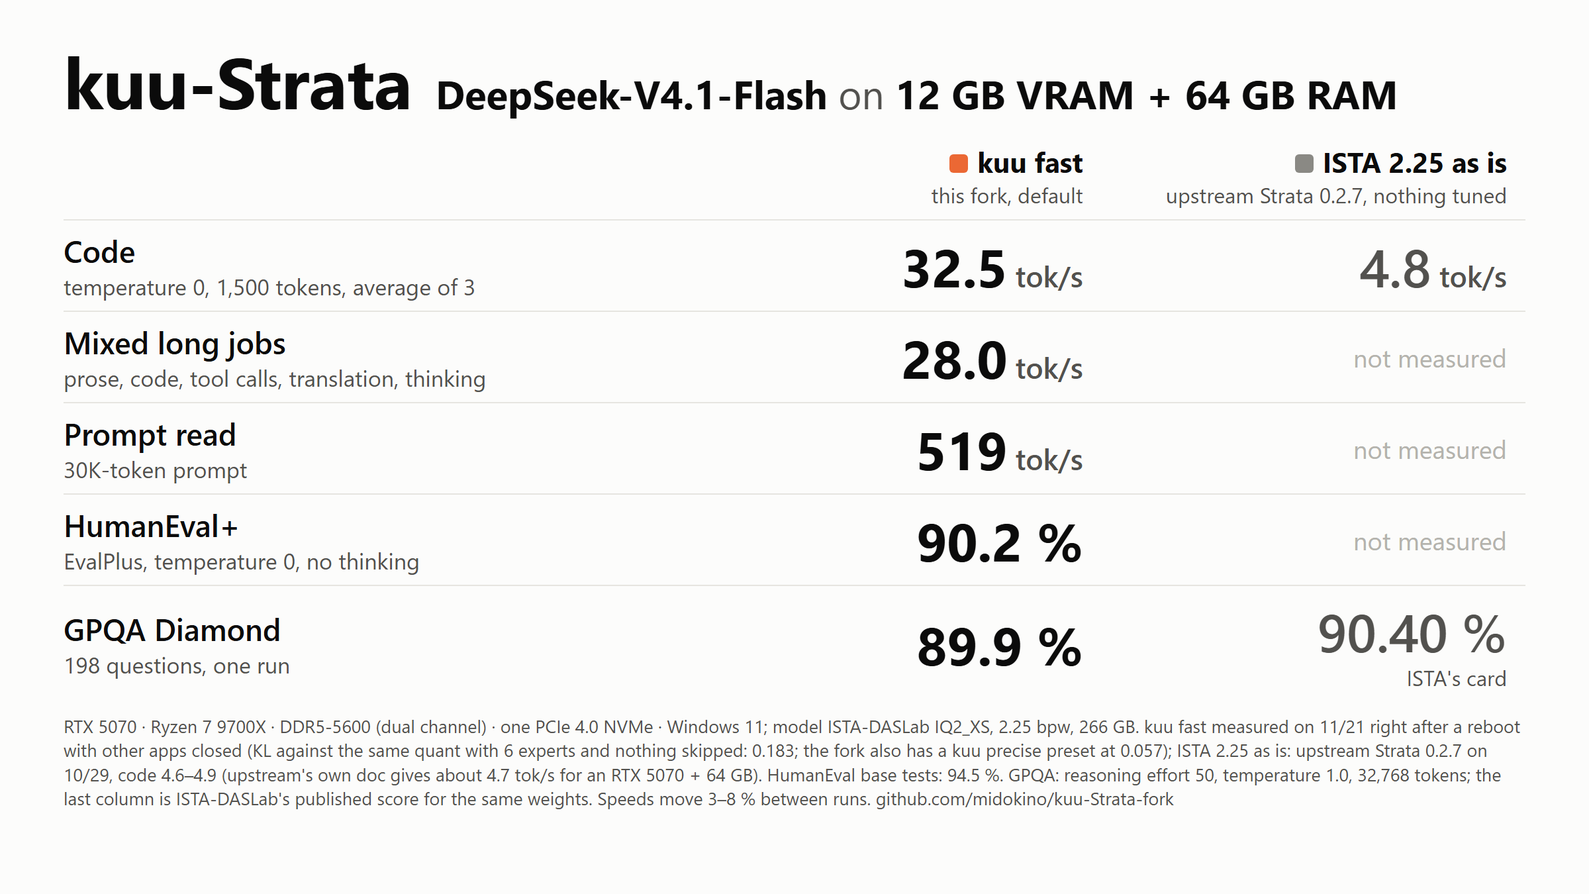
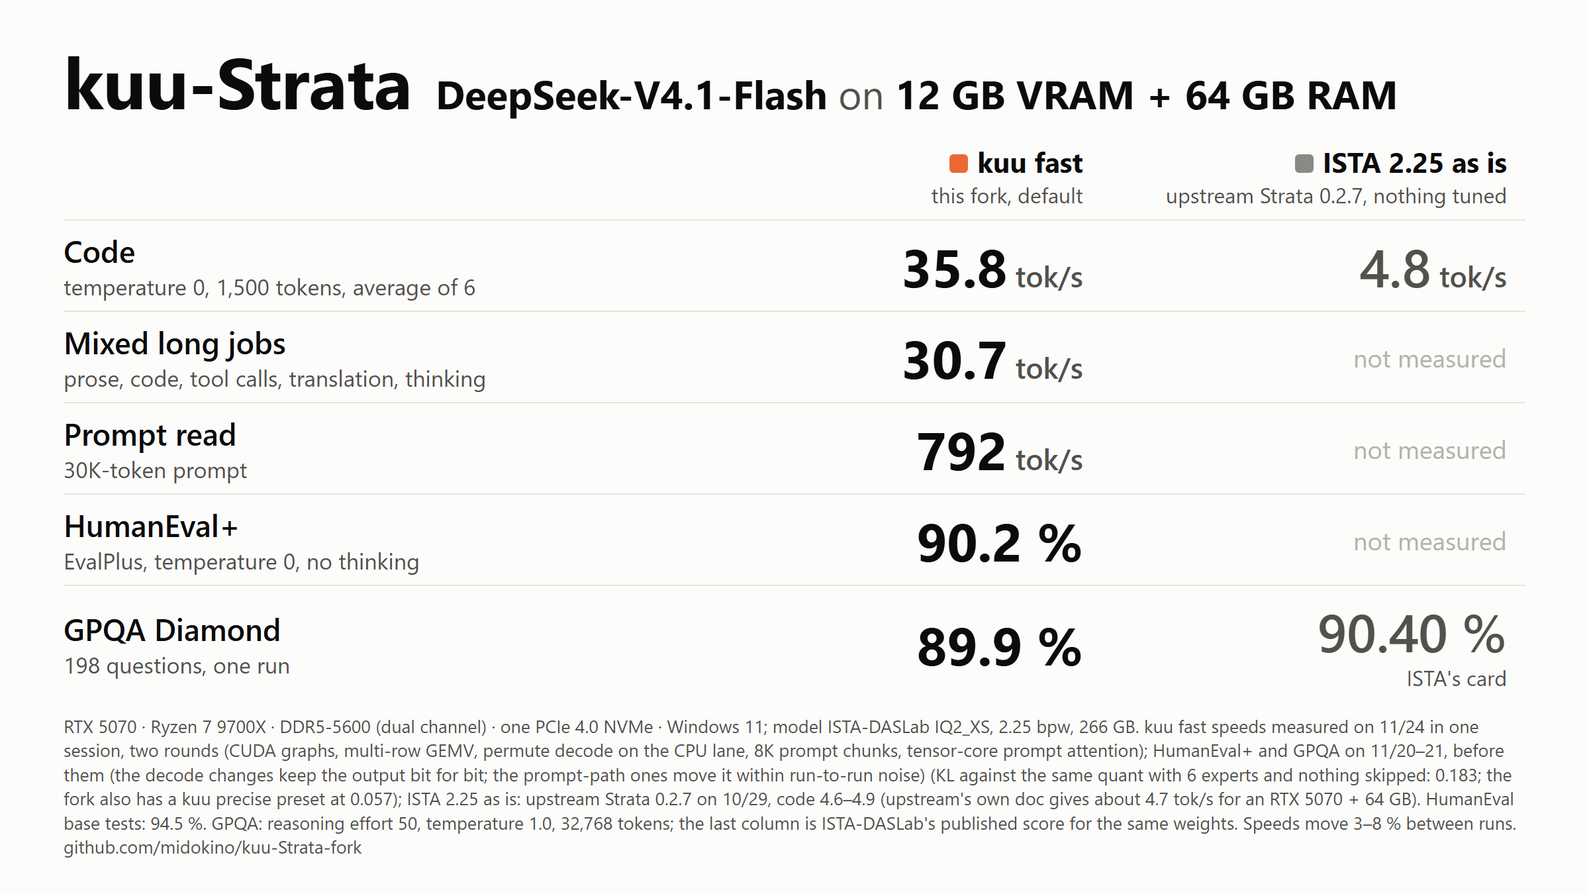
fork: the 11/23-24 engine (CUDA graphs, multi-row GEMV, permute decode, 8K prompt chunks with lending, tensor-core prompt attention, router tiles); README's changes grouped as general / CUDA only / Windows only; card and summary from the 11/24 run

diff --git a/docs/img/src/kuu-strata-card.html b/docs/img/src/kuu-strata-card.html
@@ -31,11 +31,11 @@ td em{font-style:normal;font-size:22px;font-weight:600;color:var(--ink2);margin-
 <tr><th></th>
  <th><i style="background:var(--fast)"></i>kuu fast<small>this fork, default</small></th>
  <th><i style="background:var(--up)"></i>ISTA 2.25 as is<small>upstream Strata 0.2.7, nothing tuned</small></th></tr>
-<tr><td>Code<small>temperature 0, 1,500 tokens, average of 3</small></td><td>32.5<em>tok/s</em></td><td class="up">4.8<em>tok/s</em></td></tr>
-<tr><td>Mixed long jobs<small>prose, code, tool calls, translation, thinking</small></td><td>28.0<em>tok/s</em></td><td class="na">not measured</td></tr>
-<tr><td>Prompt read<small>30K-token prompt</small></td><td>519<em>tok/s</em></td><td class="na">not measured</td></tr>
+<tr><td>Code<small>temperature 0, 1,500 tokens, average of 6</small></td><td>35.8<em>tok/s</em></td><td class="up">4.8<em>tok/s</em></td></tr>
+<tr><td>Mixed long jobs<small>prose, code, tool calls, translation, thinking</small></td><td>30.7<em>tok/s</em></td><td class="na">not measured</td></tr>
+<tr><td>Prompt read<small>30K-token prompt</small></td><td>792<em>tok/s</em></td><td class="na">not measured</td></tr>
 <tr><td>HumanEval+<small>EvalPlus, temperature 0, no thinking</small></td><td>90.2 %</td><td class="na">not measured</td></tr>
 <tr><td>GPQA Diamond<small>198 questions, one run</small></td><td>89.9 %</td><td class="up">90.40 %<small class="n">ISTA's card</small></td></tr>
 </table>
-<div class="foot">RTX 5070 · Ryzen 7 9700X · DDR5-5600 (dual channel) · one PCIe 4.0 NVMe · Windows 11; model ISTA-DASLab IQ2_XS, 2.25 bpw, 266 GB. kuu fast measured on 11/21 right after a reboot with other apps closed (KL against the same quant with 6 experts and nothing skipped: 0.183; the fork also has a kuu precise preset at 0.057); ISTA 2.25 as is: upstream Strata 0.2.7 on 10/29, code 4.6–4.9 (upstream's own doc gives about 4.7 tok/s for an RTX 5070 + 64 GB). HumanEval base tests: 94.5 %. GPQA: reasoning effort 50, temperature 1.0, 32,768 tokens; the last column is ISTA-DASLab's published score for the same weights. Speeds move 3–8 % between runs. <span style="white-space:nowrap">github.com/midokino/kuu-Strata-fork</span></div>
+<div class="foot">RTX 5070 · Ryzen 7 9700X · DDR5-5600 (dual channel) · one PCIe 4.0 NVMe · Windows 11; model ISTA-DASLab IQ2_XS, 2.25 bpw, 266 GB. kuu fast speeds measured on 11/24 in one session, two rounds (CUDA graphs, multi-row GEMV, permute decode on the CPU lane, 8K prompt chunks, tensor-core prompt attention); HumanEval+ and GPQA on 11/20–21, before them (the decode changes keep the output bit for bit; the prompt-path ones move it within run-to-run noise) (KL against the same quant with 6 experts and nothing skipped: 0.183; the fork also has a kuu precise preset at 0.057); ISTA 2.25 as is: upstream Strata 0.2.7 on 10/29, code 4.6–4.9 (upstream's own doc gives about 4.7 tok/s for an RTX 5070 + 64 GB). HumanEval base tests: 94.5 %. GPQA: reasoning effort 50, temperature 1.0, 32,768 tokens; the last column is ISTA-DASLab's published score for the same weights. Speeds move 3–8 % between runs. <span style="white-space:nowrap">github.com/midokino/kuu-Strata-fork</span></div>
 </body></html>

diff --git a/docs/img/src/kuu-strata-summary.html b/docs/img/src/kuu-strata-summary.html
@@ -44,11 +44,11 @@ svg text{font-family:"Segoe UI",system-ui,sans-serif}
   <svg id="p" width="360" height="250"></svg></div>
  <div class="tiles">
   <div class="tile"><b>89.9 %</b><span>GPQA Diamond, one run (ISTA's card: 90.40 for this quant, 90.91 original)</span></div>
-  <div class="tile"><b>28.0 tok/s</b><span>mixed long jobs: prose, code, tool calls, translation, thinking</span></div>
+  <div class="tile"><b>30.7 tok/s</b><span>mixed long jobs: prose, code, tool calls, translation, thinking</span></div>
   <div class="tile"><b>0.183</b><span>KL against the same quant with 6 experts and nothing skipped (kuu precise: 0.057)</span></div>
  </div>
 </div>
-<div class="foot">Same PC throughout. This fork: the kuu fast preset, measured on 11/21. Upstream: Strata 0.2.7 as installed on 10/29 (upstream's own doc gives about 4.7 tok/s for an RTX 5070 with 64 GB). DSpark drafter on, 5 of 6 experts, 128K context. Software changes only; numbers move 3–8 % between runs.</div>
+<div class="foot">Same PC throughout. This fork: the kuu fast preset, measured on 11/24. Upstream: Strata 0.2.7 as installed on 10/29 (upstream's own doc gives about 4.7 tok/s for an RTX 5070 with 64 GB). DSpark drafter on, 5 of 6 experts, 128K context. Software changes only; numbers move 3–8 % between runs.</div>
 <script>
 const NS="http://www.w3.org/2000/svg";
 function chart(id,max,ticks,groups){
@@ -65,11 +65,11 @@ function chart(id,max,ticks,groups){
    el("text",{x:X(v)+8,y:y+15,"font-size":15,"font-weight":j?700:500,fill:"#0b0b0b"},b.t);});});
 }
 chart("g",40,[0,10,20,30,40],[
- {l:"Code, temperature 0",b:[{v:4.75,t:"4.6–4.9"},{v:32.5,t:"32.5"}]},
- {l:"Short replies (4 kinds)",b:[{v:6.7,t:"6.7"},{v:29.2,t:"29.2"}]},
+ {l:"Code, temperature 0",b:[{v:4.75,t:"4.6–4.9"},{v:35.8,t:"35.8"}]},
+ {l:"Short replies (4 kinds)",b:[{v:6.7,t:"6.7"},{v:30.9,t:"30.9"}]},
 ]);
-chart("p",600,[0,200,400,600],[
- {l:"4.6K-token prompt",b:[{v:62,t:"56–68"},{v:197,t:"195–199"}]},
- {l:"30K-token prompt",b:[{v:null},{v:519,t:"519"}]},
+chart("p",800,[0,200,400,600,800],[
+ {l:"4.6K-token prompt",b:[{v:62,t:"56–68"},{v:218,t:"209–227"}]},
+ {l:"30K-token prompt",b:[{v:null},{v:792,t:"792"}]},
 ]);
 </script></body></html>

diff --git a/README.md b/README.md
@@ -25,24 +25,26 @@ Ryzen 7 9700X (105 W in BIOS) · RTX 5070 12 GB · DDR5-5600 64 GB (dual channel
 Windows 11 · model: ISTA-DASLab DeepSeek-V4.1-Flash-1017 GSQ-RCO **IQ2_XS (2.25 bpw)**, 5 of 6 experts, DSpark drafter
 on, 128K context.
 
-| | upstream as installed (Strata 0.2.7, 10/29) | starting point (11/12: drafter on, 5 experts, nothing skipped) | kuu precise | kuu fast (this fork, default) |
-|---|---|---|---|---|
-| short replies (4 kinds, averaged) | about 6.7 tok/s | 12.0 tok/s | 22.4 tok/s | 28.3 tok/s |
-| mixed long generations ("wide": prose, code, tool calls, translation, thinking) | — | about 10 tok/s | 21.1 tok/s | 27.8 tok/s |
-| code, temperature 0 | 4.6–4.9 tok/s | — | 24.2 tok/s | 30.4 tok/s |
-| prompt read, 4.6K tokens | 56–68 tok/s | 128 / 137 tok/s | 152 / 163 tok/s | 183 / 199 tok/s |
-| prompt read, 30K tokens | — | 414 / 431 tok/s | 442 tok/s | 471 tok/s |
-| quality: KL against the same model with 6 experts and nothing skipped (3 segments, 3,000 positions) | — | 0.036 | 0.057 (±0.005 between runs) | 0.183 |
-| GPQA Diamond (one run each, see below) | — (ISTA-DASLab's card: 90.40 %) | — | 89.4 % | 89.9 % |
-| HumanEval / HumanEval+ (EvalPlus 0.3.1, temperature 0, no thinking) | — | — | 95.7 / 89.6 % | 94.5 / 90.2 % |
+| | upstream as installed (Strata 0.2.7, 10/29) | starting point (11/12: drafter on, 5 experts, nothing skipped) | kuu precise (11/20) | kuu fast (11/20) | **kuu fast, 11/24 engine (default)** |
+|---|---|---|---|---|---|
+| short replies (4 kinds, averaged) | about 6.7 tok/s | 12.0 tok/s | 22.4 tok/s | 28.3 tok/s | **30.9 tok/s** |
+| mixed long generations ("wide": prose, code, tool calls, translation, thinking) | — | about 10 tok/s | 21.1 tok/s | 27.8 tok/s | **30.7 tok/s** |
+| code, temperature 0 | 4.6–4.9 tok/s | — | 24.2 tok/s | 30.4 tok/s | **35.8 tok/s** |
+| prompt read, 4.6K tokens | 56–68 tok/s | 128 / 137 tok/s | 152 / 163 tok/s | 183 / 199 tok/s | **209 / 227 tok/s** |
+| prompt read, 30K tokens | — | 414 / 431 tok/s | 442 tok/s | 471 tok/s | **792 tok/s** |
+| quality: KL against the same model with 6 experts and nothing skipped (3 segments, 3,000 positions) | — | 0.036 | 0.057 (±0.005 between runs) | 0.183 | — |
+| GPQA Diamond (one run each, see below) | — (ISTA-DASLab's card: 90.40 %) | — | 89.4 % | 89.9 % | — |
+| HumanEval / HumanEval+ (EvalPlus 0.3.1, temperature 0, no thinking) | — | — | 95.7 / 89.6 % | 94.5 / 90.2 % | — |
 
 The 10/29 column was measured while the engine inherited a low disk priority from the program that started it (upstream fixed
 that later, #4733), so its prompt reads are lower than they should be; upstream's own DeepSeek doc gives about 4.7 tok/s
 for an RTX 5070 with 64 GB of RAM, which matches its code speed. Generation speed moves 3–8 % from run to run; every comparison above was made against a baseline run in the same session. The kuu precise and kuu fast columns (settings at
 the end) were measured on 11/20 in one session (code: average of 3): fast is +26–32 % on generation, +20–22 % on the 4.6K
 prompt and +7 % on the 30K one. kuu precise alone measured higher on other days (wide 20.6–21.6, code 24–27, 30K read
-490–544), which is the run-to-run spread. The card at the top shows a later run of kuu fast alone (11/21, right after a reboot with other apps closed):
-28.0 (wide), 32.5 (code, average of 3), 195 / 199 and 519 tok/s.
+490–544), which is the run-to-run spread. The last column is the same kuu fast settings on the 11/24 engine (the CUDA, CPU and prompt-path changes in the
+next section), measured on 11/24 in one session, two rounds, code an average of 6; the card and the summary image show it.
+Its generation changes keep the output bit for bit and its prompt-path changes move it within run-to-run noise, so
+the quality rows were not measured again.
 
 ![GPQA Diamond: this fork against ISTA-DASLab's numbers](docs/img/kuu-strata-gpqa.png)
 
@@ -65,38 +67,89 @@ far more skipping than KL suggests. Code came out the same way on HumanEval+ (te
 for kuu precise and 94.5 / 90.2 % for this one (base / plus tests), one or two problems apart either way, although
 only 25 of the 164 solutions were word for word the same. Exact copying and Japanese prose were not measured this way.
 
-## What changed (all in `src/dsv41`, environment variables, off unless set)
+## What changed
 
-Adopted on the reference PC (kuu precise; kuu fast adds more skipping and deferral, both at the end):
+All engine changes are in `src/dsv41` and are environment variables, off unless set (one exception, noted). They are
+grouped by who can use them:
+
+- **[General](#general-speedups-any-platform)**: the engine's own logic, on any OS and any GPU backend. One needs a
+  CPU with AVX-512 VBMI.
+- **[CUDA (NVIDIA) only](#cuda-nvidia-only-speedups)**: CUDA kernels and CUDA graphs. On HIP or Metal builds they do
+  nothing or are compiled out.
+- **[Windows only](#windows-only-speedups)**: fixes and settings for how Windows handles files, video memory and
+  process priority.
+
+Everything was measured on one PC (Windows 11, RTX 5070). "Identical output" means the same token ids in `--score`
+runs; "KL" is against the same model with 6 experts and nothing skipped.
+
+### General speedups (any platform)
 
 | setting | what it does | measured |
 |---|---|---|
-| `STRATA_DS4_RAM_SKIP_W=0.10`, `STRATA_DS4_DISK_SKIP_W=0.20` (upstream switches) | leave out CPU-lane experts lighter than 10 % of the token's route weight, and those under 20 % that are not in RAM | the main speedup (12 → 20 tok/s); KL 0.036 → 0.064 |
+| `STRATA_DS4_RAM_SKIP_W=0.10`, `STRATA_DS4_DISK_SKIP_W=0.20` (upstream switches; kuu fast: `0.26`) | leave out CPU-lane experts lighter than 10 % of the token's route weight, and those under 20 % that are not in RAM | the main speedup (12 → 20 tok/s); KL 0.036 → 0.064 |
 | `in_ram()` counts the RAM store | the disk rule sees the store's experts as in RAM | correctness; no speed change measured |
-| `STRATA_DS4_DROP_SHARDS=1` | close the expert shards' buffered file handles and views after load | prompt read +7–17 % (cached handles made unbuffered reads slow) |
-| `DS4_MTP_VRAM_GB` (cap, default unlimited) + `--dspark on` | caps the DSpark drafter's experts in VRAM so the trunk keeps room (0.5 GB used), so the drafter can stay on (see below) | code +29 %, thinking +22 %, prompt reads unchanged |
+| `STRATA_DS4_DEFER=3`, `STRATA_DS4_DEFER_W=0.20` (kuu fast) | Expert Deferral (KTransformers, SOSP '25): light experts' output added one layer late, so the CPU overlaps the GPU's attention | part of kuu fast's +26–32 % on generation |
+| `STRATA_DS4_PROMPT_SKIP=2` (upstream switch, kuu fast) | DeepSeek's own serving's long-prompt skip: past layer 20 only the last 128 rows | part of kuu fast's prompt-read gain |
+| `DS4_MTP_VRAM_GB` (cap, default unlimited) + `--dspark on` | caps the DSpark drafter's experts in VRAM so the trunk keeps room (0.5 GB used), so the drafter can stay on | code +29 %, thinking +22 %, prompt reads unchanged |
 | RAM store size classes per layer | the store's slots sized per layer instead of the largest layer's | more experts in the same RAM |
 | `STRATA_DS4_DSPARK_LAZY=1` (from Project Maya's `DS4_DSPARK_LAZY`) | the drafter head stops at the first draft the confidence cut drops | +2–5 %, identical output |
 | `STRATA_DS4_LM_AHEAD=1` | during a long prompt, read the next layer's likely experts ahead | 30K read +7 % |
-| `STRATA_DS4_ROUTER_BF16=1` (the idea of Project Maya's `MAYA_DS4_ROUTER_BF16`, own kernel) | keep the router in BF16 (as stored) instead of an F32 copy; same sums bit for bit | +19 experts in VRAM, identical output |
 | `STRATA_DS4_EG_RING=8` (after reading Xolotl's Engram prefetch) | the prompt path's Engram rows read ahead by a helper thread | 30K read +6 %, identical output |
+| `--prefill-chunk 8192` + `STRATA_DS4_LEND_ALL=1`, `STRATA_DS4_LEND_ROOM=1.2` (11/24) | prompts in 8K chunks instead of 4K, so each layer's experts cross PCIe half as often. Upstream lends a chunk's buffers the tail of the VRAM expert slots only for MXFP4 packs; `LEND_ALL` does it for the i-quant packs too (without it, 8K chunks cost 160 of 288 VRAM experts and decode drops 15–20 %) | 30K read 50.5 → 42.1 s (+20 %), 4.6K +11 %; decode, short replies and "wide" unchanged |
+| `STRATA_IQ_XXS_PERM=1` (11/23) — **CPU: AVX-512 with VBMI and VPOPCNTDQ** (Ryzen 7000 / 9000, Intel Ice Lake and later server or workstation parts; other CPUs keep the existing rows automatically) | the CPU lane's IQ2_XXS blocks (60 % of the expert bytes) decoded with permute instructions (`vpermb`, `vpermt2w`, `vpmultishiftqb`) instead of 32 table loads a block | −5.5 % time a token, identical output; the 1-token kernel 46 → 53 GB/s on 8 threads |
 | `STRATA_DS4_SHARED_LEAST=128` etc. (server) | keep a short shared system prompt's start in the prefix cache | agent tool-approval turns 12 s → 6 s |
+| the IQ2_XXS DSpark drafter (`tools/dsv41/drafter_pack.py`, [below](#the-dspark-drafter-in-iq2_xxs)) | the drafter requantized from 8 GB Q8_0 | 1–2 GB of RAM back, acceptance unchanged (86–88 %) |
 
-Measured and **not** adopted (kept, off by default, so the numbers can be reproduced):
+### CUDA (NVIDIA) only speedups
+
+The build in this fork is CUDA only. These are CUDA kernels or CUDA graphs; a HIP or Metal build leaves them out or never
+takes them.
+
+| setting | what it does | measured |
+|---|---|---|
+| `STRATA_DS4_GRAPH=3` + `STRATA_DS4_SEQ_ALIGN=1` (11/23) | **CUDA graphs** for the decode layers. Every launch and copy of a layer is recorded once (a "tape") and replayed from a kept graph from then on; the values that change from step to step (positions, row lists, mailbox slots) live in fixed device slots, so one graph serves every step. A layer that cannot be recorded plays its tape as ordinary launches | −3.8 % time a token, identical output |
+| `STRATA_DS4_MV_R=2` (11/23) | the dense Q5_K / Q6_K matrices (attention, shared experts) with 2 rows a warp, each column's activations loaded once for both. A verify window's 16-column GEMV was running at a third of the 1-column one's bandwidth | −3.2 % time a token, identical output |
+| `DS4_FAST_ATTN=1` (11/24; upstream's switch, HIP only until now) | the chunked prompt's sparse attention on the tensor cores: upstream's RDNA4 WMMA scheme ported to `mma.sync` m16n8k16 (FP16 in, FP32 sums, sm_80 and later; 16 heads of one query a block, the softmax rescaled per head in registers). The sums' order differs from the scalar kernel's, so the output is not bit-identical | sparse attention 7.4 → 2.2 s, 30K read 41.6 → 36.6 s (−12 %); first-token KL against the scalar kernel inside the run-to-run spread of the scalar kernel itself (0.033–0.038 against 0.039) |
+| `STRATA_DS4_ROUTER_BF16=1` (the idea of Project Maya's `MAYA_DS4_ROUTER_BF16`, own kernel) | keep the router in BF16 (as stored) instead of an F32 copy; the same sums | +19 experts in VRAM, identical output |
+| the BF16 router in 4 × 8 tiles (11/24; **on by default**, `STRATA_DS4_ROUTER_TILE=0` turns it off) | over a prompt's chunk, one warp computes 4 router rows × 8 tokens, each value loaded once for the tile's 32 dots; every dot keeps the row-at-a-time kernel's own order (`DS4_ROUTER_TILE_CHECK=N` compares the two: 60 of 60 identical) | router 1.22 → 0.63 s on a 30K prompt (about −0.5 s), identical output |
+
+### Windows only speedups
+
+| setting | what it does | measured |
+|---|---|---|
+| `STRATA_DS4_DROP_SHARDS=1` | after the load, close the expert shards' buffered file handles and views, leaving unbuffered handles only. On Windows a file kept open buffered (or mapped) made the unbuffered reads of the same file slow (the code runs everywhere; the problem was found and measured on Windows) | prompt read +7–17 % |
+| `--reserve-mib 200` (a setting) | keep 200 MiB of VRAM free. Below about 150 MiB, Windows (WDDM) silently moved VRAM into shared system memory: no error, just slower | avoids a silent slowdown |
+| start the server at task priority 4, not 7 (Task Scheduler) | a scheduled task at priority 7 gives its process memory priority 2, and Windows trimmed the 36 GB RAM store out within about 10 minutes of idling | keeps the RAM store resident |
+| the engine's I/O priority (upstream #4733, fixed in 0.2.10) | before 0.2.10 the engine inherited the I/O priority of the program that started it; started from a low-priority shell, every disk read ran at low priority | prompt reads about 1.5× (why the 10/29 column's prompt reads are low) |
+
+Also on Windows: the weekly "Optimize Drives" task (re-trim of an SSD) runs while the PC is idle, and a benchmark that
+overlaps it reads the experts from a busy SSD (on the reference PC: Mondays around 10–11 am).
+
+### Measured and **not** adopted
+
+(kept, off by default, so the numbers can be reproduced)
 
 | setting | idea | result |
 |---|---|---|
-| `STRATA_DS4_DEFER=1..4`, `_DEFER_W`, `_DEFER_K`, `_DEFER_COLD` | Expert Deferral (KTransformers, SOSP '25; Strata-xeno #254 tried the same first): light experts' output added one layer late so the CPU overlaps the GPU's attention; exact through DeepSeek's hyper-connection mixing | without drafts +11 % at KL +0.02; with DSpark drafts the gain halves and it lands on the same speed/KL line as a higher `DISK_SKIP_W` |
-| `STRATA_DS4_DEFER_BUDGET=1`, `_DEFER_US_MAX` | defer only what fits the CPU's idle time, the budget learned online (the paper's "saturate the CPU" rule) | KL 0.097 → 0.089 against plain deferral at the same cap, still on the same line |
-| `STRATA_DS4_WIN_CUT` | drop a verify window's tail rows when their new experts cost more than their chance of being accepted | +0.4 % (the drafts were right 80+ % of the time where it cut) |
-| `STRATA_DS4_ACE=1`, `_NORM_DUMP`, `_NORM_FILE` | ACE-style skip (arXiv 2609.05228): weight × expert norm, both views, top-1 kept | no point beyond the plain rule's line |
+| `STRATA_DS4_DEFER_BUDGET=1`, `_DEFER_US_MAX` | defer only what fits the CPU's idle time, the budget learned online | KL 0.097 → 0.089 against plain deferral at the same cap, the same speed/KL line |
+| `STRATA_DS4_WIN_CUT` | drop a verify window's tail rows when their new experts cost more than their chance of being accepted | +0.4 % |
+| `STRATA_DS4_ACE=1`, `_NORM_DUMP`, `_NORM_FILE` | ACE-style skip (arXiv 2609.05228): weight × expert norm | no point beyond the plain rule's line |
 | `STRATA_DS4_DRAFT_RAM_W` / `_DRAFT_DISK_W` | higher skip thresholds on draft rows only | big quality loss |
 | others in `4d3b2d3a` | routing / budget variants F1, F2, E2, A2, A3 | none beat the plain rule |
+| `STRATA_DS4_GRAPH=2` | per-layer stream capture | replaced by `GRAPH=3` |
+| `STRATA_IQ_XXS_PERM=2` | the permute decode for IQ2_XS (a 16-register table) | +7–10 % on IQ2_XS calls in the bench, no change in total time |
+| `DS4_GG_IQ512=1` | IQ2_S on AVX-512 | no change |
+| `STRATA_DS4_CPU_LANE=smt` | the CPU lane on both threads of every core | −3–4 % per CPU-lane call, the same total time |
+| GEMV through shared memory, hoisted sums, fewer registers | — | none beat `MV_R=2`; at 6 columns it is bound by instruction issue |
+| `--prefill-chunk 12288` / `16384` | fewer chunks still | the lending room ends at 8K: 12K and 16K left 32 and 0 experts in VRAM, much slower |
+| `DS4_RING_MB` 1200 / 2400 | a larger streaming ring for the prompt path | the ring's VRAM came out of the VRAM experts: slower |
+| `DS4_FAT_ROWS=64` | busy experts as FP16 cuBLAS GEMMs | expert kernels 9.1 → 7.8 s, the prompt the same (it waits for PCIe, not for compute) |
+| the layer-major state's copy out and copy in overlapped (two directions of PCIe at once) | — | no change |
 
-A faster setting that measured well: `STRATA_DS4_DISK_SKIP_W=0.24` gives +18 % on "wide" and about 28–31 tok/s on
-code at temperature 0, at KL 0.114 (English suffers most). Going further, `DISK_SKIP_W=0.26` with deferral 0.20 reaches
-about 30–35 tok/s on code at KL 0.183 and still scored 89.9 % on GPQA Diamond (above). The second is kuu fast, the default since 11/20: KL says it
-changes the text more, but GPQA and HumanEval+ came out the same; exact copying and Japanese prose are unchecked.
+Where the time goes now: decode is two thirds the CPU lane's expert compute, at about 43 GB/s of the 9700X's ~60 GB/s;
+a 30K prompt is about 26 s of experts crossing PCIe (every chunk sends each layer's ~3 GB again) and about 10 s of the
+last 128 rows' experts read from the SSD at its limit. The next step is fewer bytes (the 2.00 bpw quant), not faster
+kernels.
 
 ## Getting DSpark drafts on a 12 GB card
 
@@ -112,11 +165,14 @@ tight. DSpark acceptance is 86–88 %.
 ## Where the changes are
 
 The rest of the tree is upstream Strata v0.2.12 as released (`146df3c4`), apart from the READMEs and upstream's GitHub
-automation (workflows, issue templates, funding links), which were removed, and four upstream tests adjusted to match. The engine changes are in 12 files:
+automation (workflows, issue templates, funding links), which were removed, and four upstream tests adjusted to match. The engine changes are in 18 files:
 
-- `src/dsv41/`: `ds4_model.cu` (most of it), `ds4_store.hpp`, `ds4_kernels.cu` / `.cuh`, `ds4_os.hpp`, `ds4_gg_cpu.cpp`,
-  `ds4_gguf.cu`, `ds4_pool.hpp`, `ds4_model.hpp`, `ds4_main.cpp`
+- `src/dsv41/`: `ds4_model.cu` (most of it), `ds4_kernels.cu` / `.cuh`, `ds4_launch.h` (the graph tape), `ds4_iq.cu` / `.cuh`
+  (the multi-row GEMV), `ds4_store.hpp`, `ds4_os.hpp`, `ds4_gg_cpu.cpp`, `ds4_gguf.cu`, `ds4_pool.hpp`, `ds4_model.hpp`,
+  `ds4_main.cpp`
+- `src/kernels/cpu/iq_avx512.cpp` (the IQ2_XXS permute decode)
 - `serve/server.py` (the shared system-prompt cache settings), `tools/dsv41/drafter_pack.py` (IQ1 requant options)
+- tests: `tests/dsv41/ds4_gguf_test.cu` (`--bench-iqmv`), `tests/dsv41/gg_dot_bench.cpp` (`--calls K`, the CPU lane's call shape)
 
 To see them against upstream:
 
@@ -159,7 +215,8 @@ Two presets, both in the model config's `args` / `env` (the card at the top is k
 ### kuu fast (the default)
 
 ```json
-"args": ["--max-context", "131072", "--eos", "1", "--vision", "off", "--dspark", "on", "--dspark-conf", "0.65", "--reserve-mib", "200"],
+"args": ["--max-context", "131072", "--eos", "1", "--vision", "off", "--dspark", "on", "--dspark-conf", "0.65", "--reserve-mib", "200",
+         "--prefill-chunk", "8192"],
 "env": {
   "DS4_MTP_VRAM_GB": "0.5",
   "STRATA_DS4_DISK_SKIP_W": "0.26",
@@ -171,9 +228,20 @@ Two presets, both in the model config's `args` / `env` (the card at the top is k
   "STRATA_DS4_DSPARK_LAZY": "1",
   "STRATA_DS4_LM_AHEAD": "1",
   "STRATA_DS4_ROUTER_BF16": "1",
-  "STRATA_DS4_EG_RING": "8"
+  "STRATA_DS4_EG_RING": "8",
+  "STRATA_DS4_GRAPH": "3",
+  "STRATA_DS4_SEQ_ALIGN": "1",
+  "STRATA_DS4_MV_R": "2",
+  "STRATA_IQ_XXS_PERM": "1",
+  "STRATA_DS4_LEND_ALL": "1",
+  "STRATA_DS4_LEND_ROOM": "1.2",
+  "DS4_FAST_ATTN": "1"
 }
 ```
+
+The last seven lines (and `--prefill-chunk 8192`) are the 11/23–24 additions; they go into kuu precise as well. On a
+non-NVIDIA build leave out `GRAPH`, `SEQ_ALIGN`, `MV_R` and `DS4_FAST_ATTN`; on a CPU without AVX-512 VBMI
+`IQ_XXS_PERM` turns itself off.
 
 More skipping of light experts that are not in RAM, deferral of the light experts that remain, and the shorter prompt
 skip. KL against the reference is 0.183 (kuu precise: 0.057), but kuu fast matched kuu precise on GPQA Diamond
